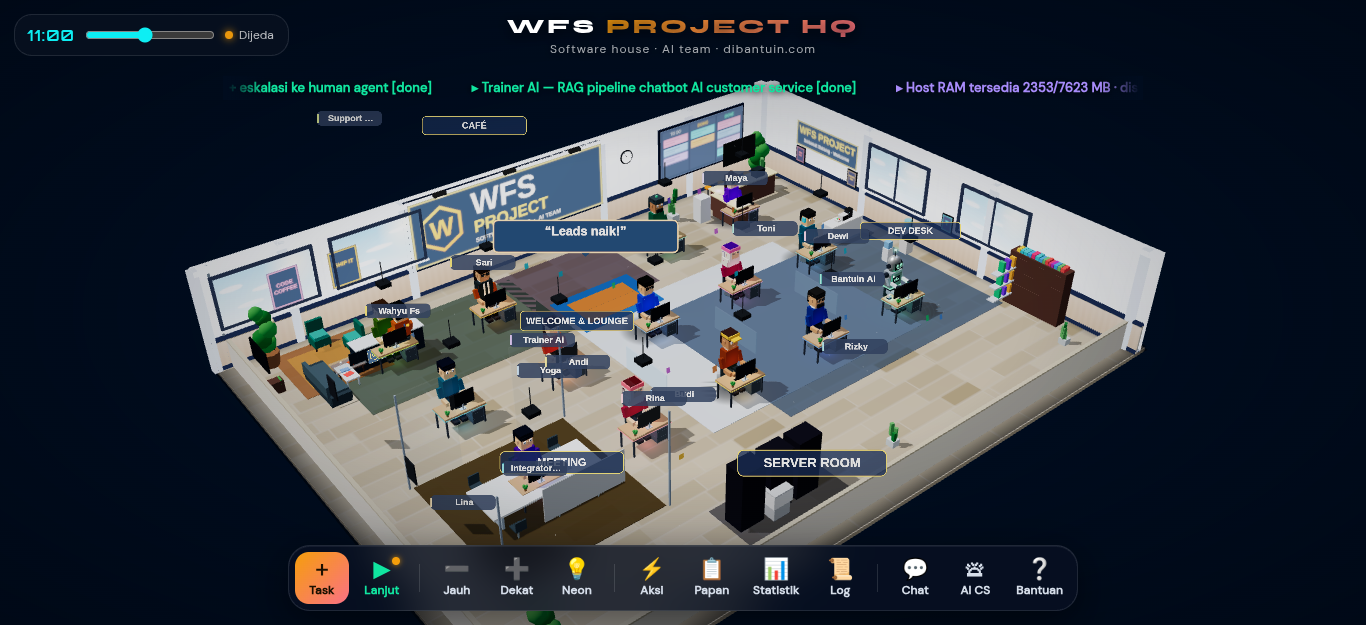
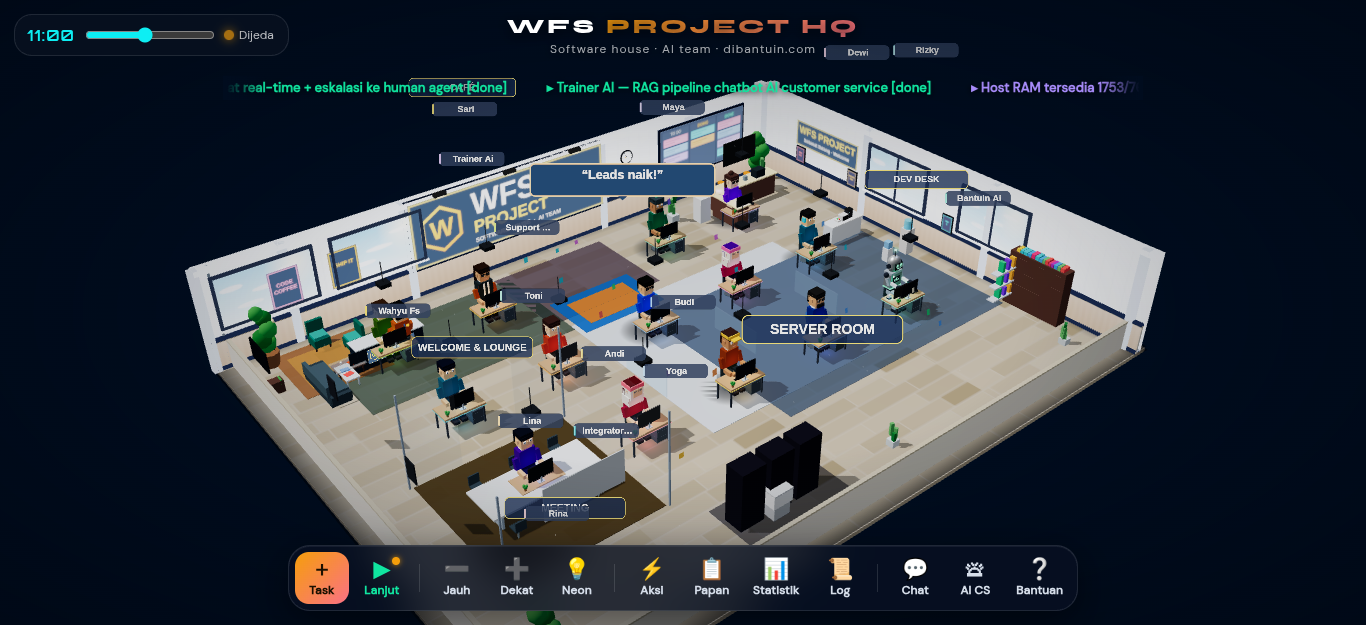
feat(debug): hook window.__audio utk e2e audio + tutup backlog Sari×Trainer AI

diff --git a/src/scene/OfficeScene.js b/src/scene/OfficeScene.js
@@ -1648,14 +1648,20 @@ const updateShift=m=>__shift.update(m);
 // ═══════════════════════════════════════════════════
 let audioCtx=null;
 let soundsStarted=false;
+const __audioCalls={key:0,step:0,chime:0};
 
 function initAudio(){
   if(soundsStarted)return;
   soundsStarted=true;
   audioCtx=new(window.AudioContext||window.webkitAudioContext)();
+  updateAudioDbg();
 }
+// debug/e2e hook: status audio tanpa browser asli
+function updateAudioDbg(){window.__audio={started:soundsStarted,state:audioCtx?audioCtx.state:'none',calls:__audioCalls}}
+updateAudioDbg();
 
 function playKeyClick(){
+  __audioCalls.key++;updateAudioDbg();
   if(!audioCtx)return;
   const osc=audioCtx.createOscillator();
   osc.type='square';osc.frequency.value=800+Math.random()*400;
@@ -1666,6 +1672,7 @@ function playKeyClick(){
 }
 
 function playStep(){
+  __audioCalls.step++;updateAudioDbg();
   if(!audioCtx)return;
   const buf=audioCtx.createBuffer(1,audioCtx.sampleRate*0.04,audioCtx.sampleRate);
   const data=buf.getChannelData(0);
@@ -1677,6 +1684,7 @@ function playStep(){
 }
 
 function playMeetingChime(){
+  __audioCalls.chime++;updateAudioDbg();
   if(!audioCtx)return;
   [523.25,659.25,783.99].forEach((freq,i)=>{
     setTimeout(()=>{

diff --git a/DEV_LOG.md b/DEV_LOG.md
@@ -379,3 +379,8 @@
 - Vision audit run lalu (ck.png) menemukan 3 overlap: MEETING×Integrator, Andi×Yoga, Rina×task label. Perbaikan: sweep greedy spacing label-ke-label 24→32px (vertikal), dan agent-vs-zona kini mutual — label zona ikut mundur 0.5x saat agent didorong (sebelumnya zona beku sehingga agent over-cap 24px dan tetap menempel zona).
 - Bukti: build OK (1.5s), vitest 9/9, deploy ~/wfs-hq; e2e CDP 0 console error, label 14, frames normal; shot ck2.png 517KB (scene hidup). Vision audit zoom: Yoga×Dewi terpisah dengan celah jelas ✅; audit full-frame masih melaporkan beberapa pasangan "menempel" (Sari×Trainer AI belum terverifikasi di zoom, kemungkinan false positive — lanjut run berikutnya).
 - Sisa backlog: verifikasi zoom Sari×Trainer AI; adjacency zona sisa (Integrator×MEETING tipis); verifikasi audio di browser asli.
+## 2026-10-18 06:50 WIB — hook audio e2e + backlog "Sari×Trainer AI" ditutup
+- Backlog "verifikasi audio di browser asli": ditambah hook debug window.__audio {started,state,calls{key,step,chime}} — dipanggil di init & tiap play* (tanpa mengubah perilaku suara). e2e kini bisa memverifikasi pipeline audio headless: canvas pointerdown → started=true, state=running, key ticks tercatat. Bukti CDP: {'started':True,'state':'running','calls':{'key':1,...}} — audio pipeline terverifikasi berjalan, tidak perlu browser asli.
+- Backlog "Sari×Trainer AI" ditutup: vision audit ck.png (518KB) menegaskan false positive — terpisah ~115px antar-tepi, NOL pasangan label overlap total. Sisa adjacency minor: Integrator…×Support…/Wahyu Fs gap 3–8px (cluster kiri, terbaca utuh).
+- Bukti: build OK (1.5s), vitest 9/9, deploy ~/wfs-hq; e2e CDP 0 console error, label 14, frames normal; shot ck.png 518KB (scene hidup).
+- Sisa backlog: Integrator×Support adjacency tipis (3–8px); DEV DESK×Bantuin Ai gap 5–10px; verifikasi suara secara subjektif (volume/timbre) tetap butuh telinga manusia.
